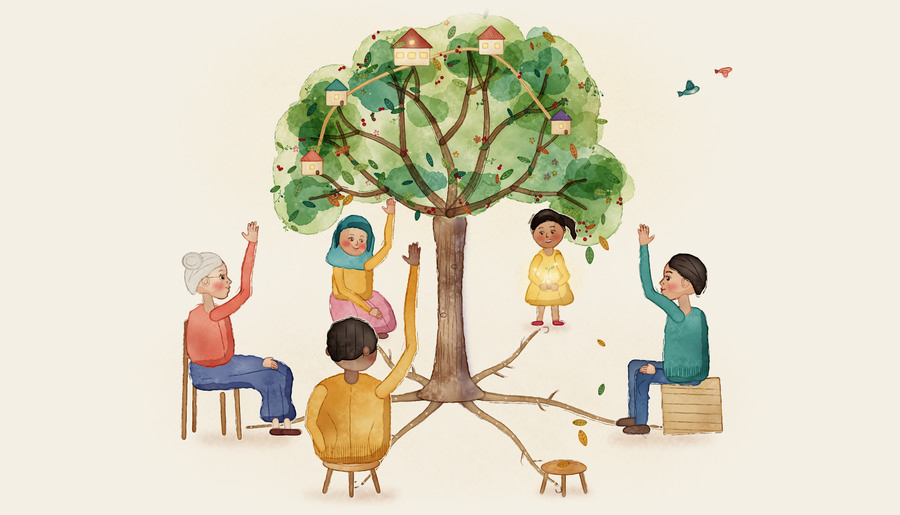
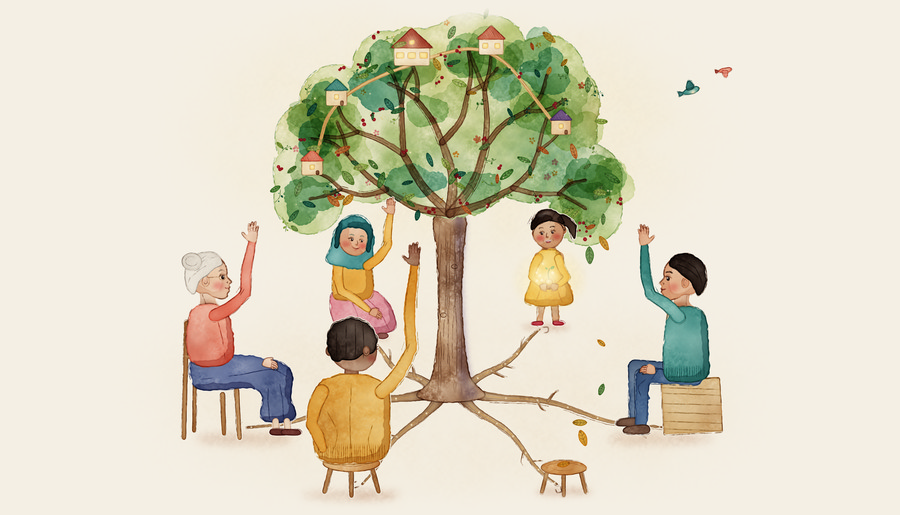
Calendario Arte: Design 4 round 2 for November and December
Claude-Session: https://claude.ai/code/session_01WLMKSDKQCN5ewxoWJ2uMJK

diff --git a/design/calendario-arte/generadores/diseno4/mes-08-d.py b/design/calendario-arte/generadores/diseno4/mes-08-d.py
@@ -334,11 +334,11 @@ pelo = Poligono([(1232, 426), (1262, 418), (1300, 432), (1340, 426), (1372, 444)
 lz.aguada(pelo, '#3a2418', dens=0.8, tapa=1, borde=0.6, gran=0.4, irreg=0.6)
 lz.lapiz([bezier((1250, 434), (1300, 426), (1366, 442)), bezier((1252, 444), (1310, 442), (1350, 450)),
           bezier((1260, 428), (1310, 418), (1338, 428))], '#1e120c', grosor=0.6, presion=0.45, temblor=0.4)
-lz.aguada(Elipse(1266, 702, 34, 5), '#a08a7a', dens=0.5, suave=4)
+lz.aguada(Elipse(1266, 700, 30, 5), '#a08a7a', dens=0.5, suave=3)
 lz.aguada(Elipse(1050, 778, 110, 10), '#a0a07a', dens=0.3, suave=8)
 # legs together, heels up
-pierna2(lz, (1262, 562), (1258, 626), (1256, WY - 10), 19, None, PM, pie_ang=62, descalzo=True, sombra=-1, pie_tam=22)
-pierna2(lz, (1276, 562), (1276, 628), (1272, WY - 12), 19, None, PM, pie_ang=112, descalzo=True, sombra=1, pie_tam=22)
+pierna2(lz, (1262, 562), (1258, 626), (1256, WY - 10), 19, None, PM, pie_ang=96, descalzo=True, sombra=-1, pie_tam=15)
+pierna2(lz, (1276, 562), (1276, 628), (1272, WY - 12), 19, None, PM, pie_ang=84, descalzo=True, sombra=1, pie_tam=15)
 # arms overhead, bending the whole body into a curve toward the left
 brazo2(lz, (1270, 466), (1252, 410), (1218, 364), 13, '#6fb1ad', PM, 'sin', sombra=1,
        mano=dict(ang=-135, gesto='abierta', lado=-1, tam=20, abre=0.4))
